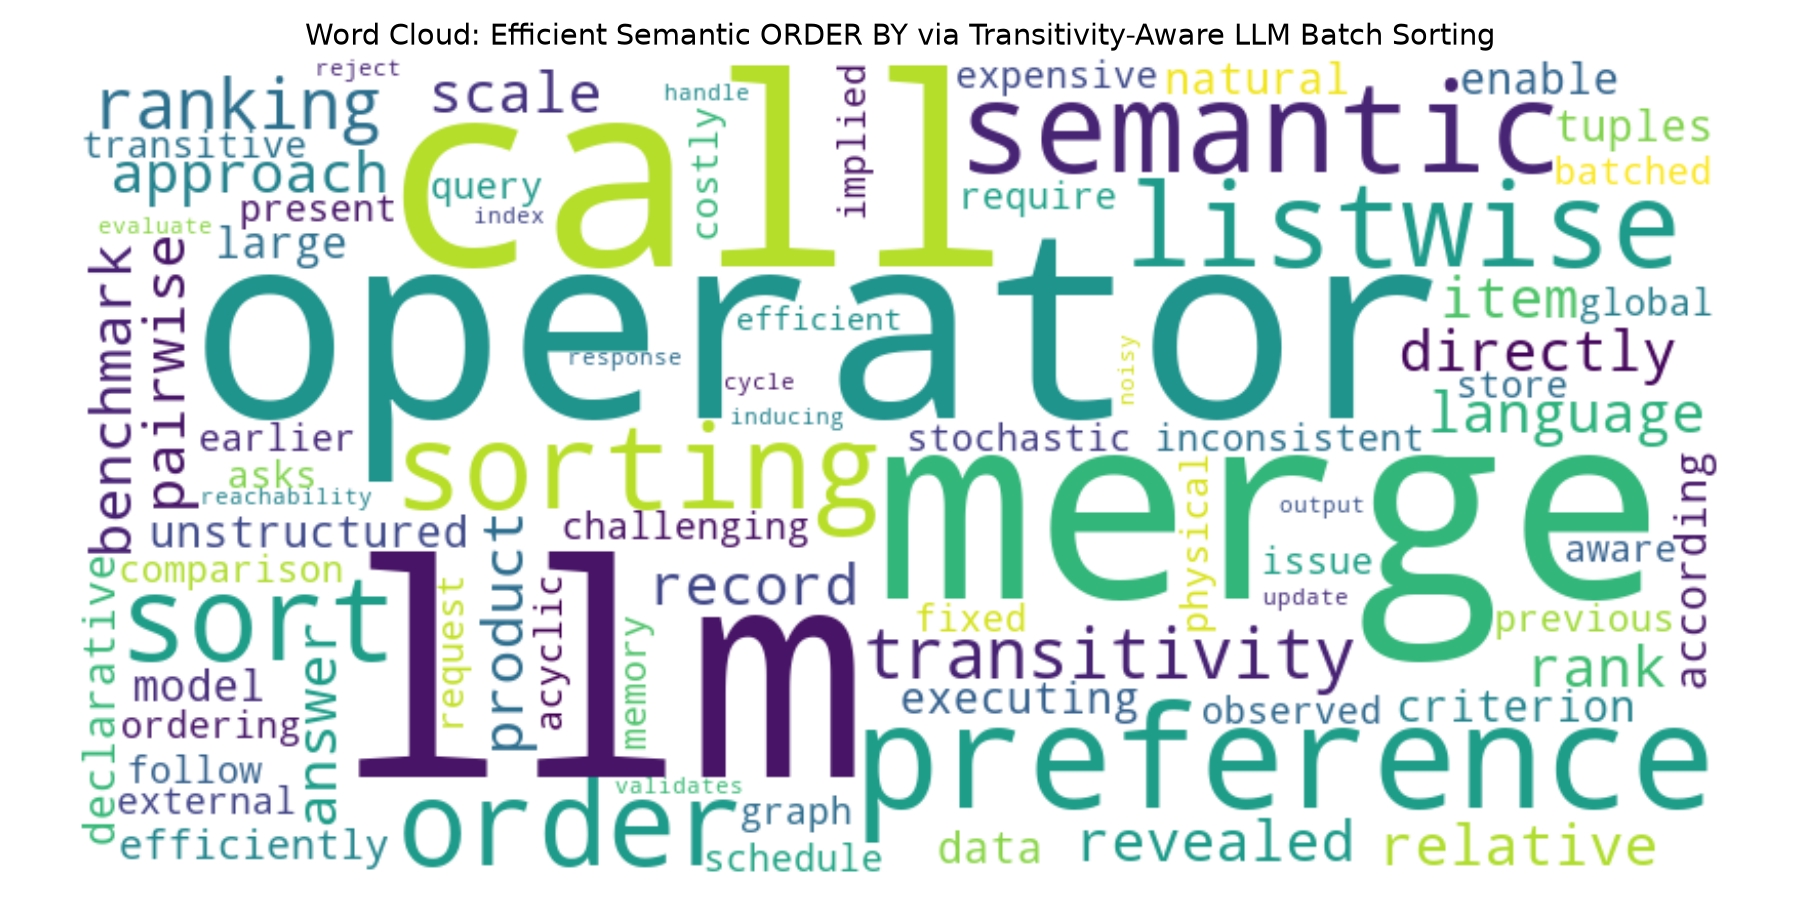
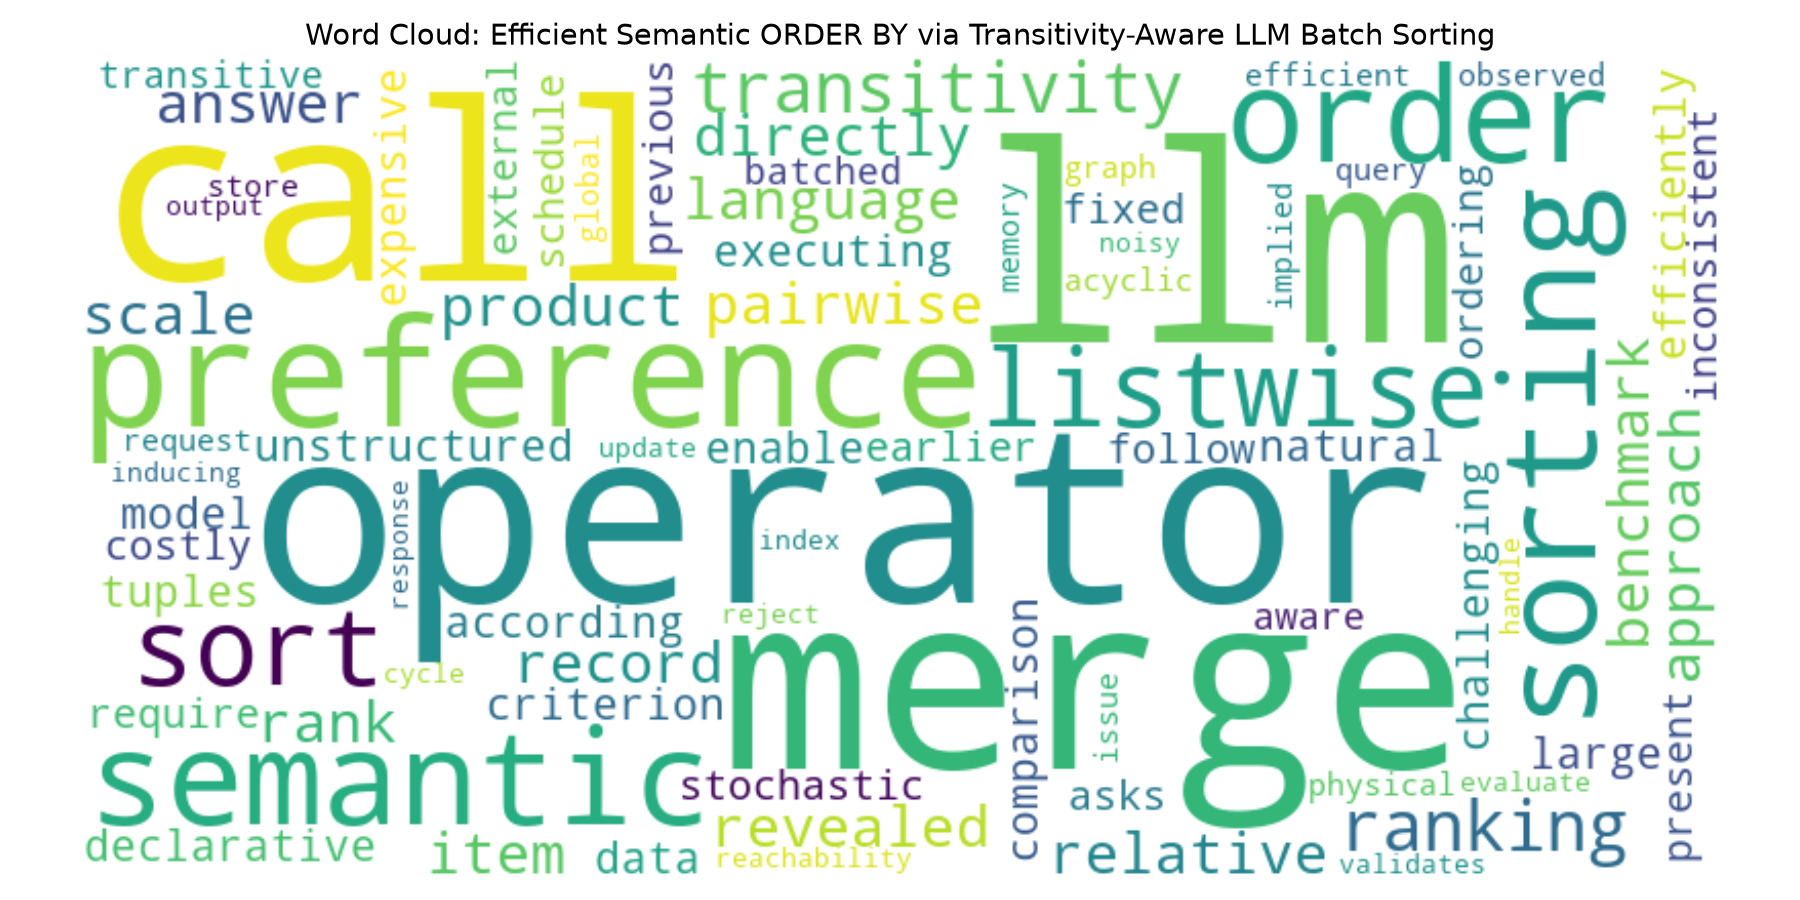
Added documentation

diff --git a/docs/index.md b/docs/index.md
@@ -60,6 +60,12 @@ and other derived text features.
 The Analyze stage produces a token frequency chart
 and a word cloud.
 
+## Custom Modifications
+
+1. The pipeline parses the HTML document from the arXiv abstract page for the paper **"Efficient Semantic ORDER BY via Transitivity-Aware LLM Batch Sorting"** *(arXiv ID: 2611.32073)*.
+2. The pipeline was modified to output the 25 most frequent tokens in a bar chart instead of the top 20. With this change, I am expecting the the data/processed/jugurtha_top_tokens.png to show 25 tokens instead of 20.
+3. The pipeline was modified to include lemmatization of tokens using NLTK's WordNetLemmatizer. This change is expected to reduce the number of unique tokens and provide a more accurate representation of the vocabulary used in the text.
+
 ## Verification
 
 A successful execution displays:
@@ -82,30 +88,25 @@ and persist web text data.
 Automated tests provide additional verification
 of the pipeline's expected behavior.
 
+## Results
+
+The pipeline produced the following results:
+
+- `data/processed/jugurtha_processed.csv` - contains the processed NLP dataset with token counts, unique token counts, type-token ratios, and other derived text features.
+  - 241 abstract words were extracted from the HTML document.
+  - 163 token counts with 123 unique tokens were identified, resulting in a type-token ratio of 0.7546.
+- `data/processed/jugurtha_top_tokens.png` - displays a bar chart of the 25 most frequent tokens in the processed text.
+- `data/processed/jugurtha_wordcloud.png` - shows a word cloud visualization of the processed text, highlighting the most prominent terms
+
+![Top 25 tokens](../data/processed/jugurtha_top_tokens.png)
+
+![Word cloud](../data/processed/jugurtha_wordcloud.png)
+
 ## Interpretation
 
-Natural language processing requires
-more than extracting text from documents.
-
-Text must be represented in ways
-that support meaningful analysis.
-
-Token frequencies describe recurring vocabulary,
-while unique token counts and type-token ratios
-provide measures of vocabulary diversity.
-
-Visualizations help reveal dominant terms
-and suggest questions for further investigation.
-
-Preprocessing decisions affect these results.
-Removing punctuation, normalizing text,
-and filtering stopwords may reduce noise,
-but can also remove meaningful linguistic information.
-
-These techniques remain relevant
-for inspectable NLP workflows,
-even as modern language models provide
-additional approaches to language understanding.
+- The pipeline successfully extracted and processed the text from the HTML document, producing a dataset with 241 abstract words. After text preprocessing and tokenization, 163 tokens were identified, of which 123 were unique.
+- This resulted in a type-token ratio (TTR) of 0.7546, indicating relatively high lexical diversity, as approximately 75% of the identified tokens were unique. The top 25 tokens visualization provides insight into the most frequently occurring terms, while the word cloud offers a visual representation of the dominant vocabulary
+- Overall, the results demonstrate how NLP techniques can transform unstructured HTML content into structured text data and generate useful insights into its vocabulary and word frequency distribution.
 
 ## Documentation Index
 
@@ -116,11 +117,11 @@ additional approaches to language understanding.
 
 ## Project Links
 
-- [GitHub Repository](https://github.com/denisecase/nlp-06-nlp-pipeline)
-- [Example Pipeline](https://github.com/denisecase/nlp-06-nlp-pipeline/blob/main/src/nlp/pipeline_web_html.py)
-- [Example Configuration](https://github.com/denisecase/nlp-06-nlp-pipeline/blob/main/src/nlp/config.py)
-- [Transform Stage](https://github.com/denisecase/nlp-06-nlp-pipeline/blob/main/src/nlp/stage03_transform.py)
-- [Analyze Stage](https://github.com/denisecase/nlp-06-nlp-pipeline/blob/main/src/nlp/stage04_analyze.py)
+- [GitHub Repository](https://github.com/jugurthakacimi/nlp-06-nlp-pipeline)
+- [Example Pipeline](https://github.com/jugurthakacimi/nlp-06-nlp-pipeline/blob/main/src/nlp/pipeline_web_html.py)
+- [Example Configuration](https://github.com/jugurthakacimi/nlp-06-nlp-pipeline/blob/main/src/nlp/config.py)
+- [Transform Stage](https://github.com/jugurthakacimi/nlp-06-nlp-pipeline/blob/main/src/nlp/stage03_transform.py)
+- [Analyze Stage](https://github.com/jugurthakacimi/nlp-06-nlp-pipeline/blob/main/src/nlp/stage04_analyze.py)
 
 ## Project Resources
 

diff --git a/README.md b/README.md
@@ -49,7 +49,7 @@ The project is configured in
 ## Data
 
 The example retrieves an academic paper's abstract page
-from [arXiv](https://arxiv.org/abs/2602.20021).
+from [arXiv](https://arxiv.org/abs/2611.32073).
 
 The source document contains:
 
@@ -120,7 +120,7 @@ The project uses [spaCy](https://spacy.io/)
 for tokenization and for flagging
 stopwords and punctuation.
 
-The example uses the `en_core_web_sm`
+The project uses the `en_core_web_sm`
 small English trained pipeline.
 
 The package is declared in
@@ -170,20 +170,20 @@ Pipeline executed successfully!
 The following files are created:
 
 - `project.log` - pipeline execution log.
-- `data/raw/case_raw.html` - original HTML document.
-- `data/processed/case_processed.csv` - processed NLP dataset.
-- `data/processed/case_top_tokens.png` - token frequency bar chart.
-- `data/processed/case_wordcloud.png` - word cloud visualization.
+- `data/raw/jugurtha_raw.html` - original HTML document.
+- `data/processed/jugurtha_processed.csv` - processed NLP dataset.
+- `data/processed/jugurtha_top_tokens.png` - token frequency bar chart.
+- `data/processed/jugurtha_wordcloud.png` - word cloud visualization.
 
 These artifacts provide evidence of successful
 data acquisition, validation, transformation,
 analysis, and persistence.
 
-### Example Visualizations
+### Visualizations
 
-![Top Tokens](docs/images/case_top_tokens.png)
+![Top 25 tokens](/data/processed/jugurtha_top_tokens.png)
 
-![Word Cloud](docs/images/case_wordcloud.png)
+![Word cloud](/data/processed/jugurtha_wordcloud.png)
 
 ## Verification
 
